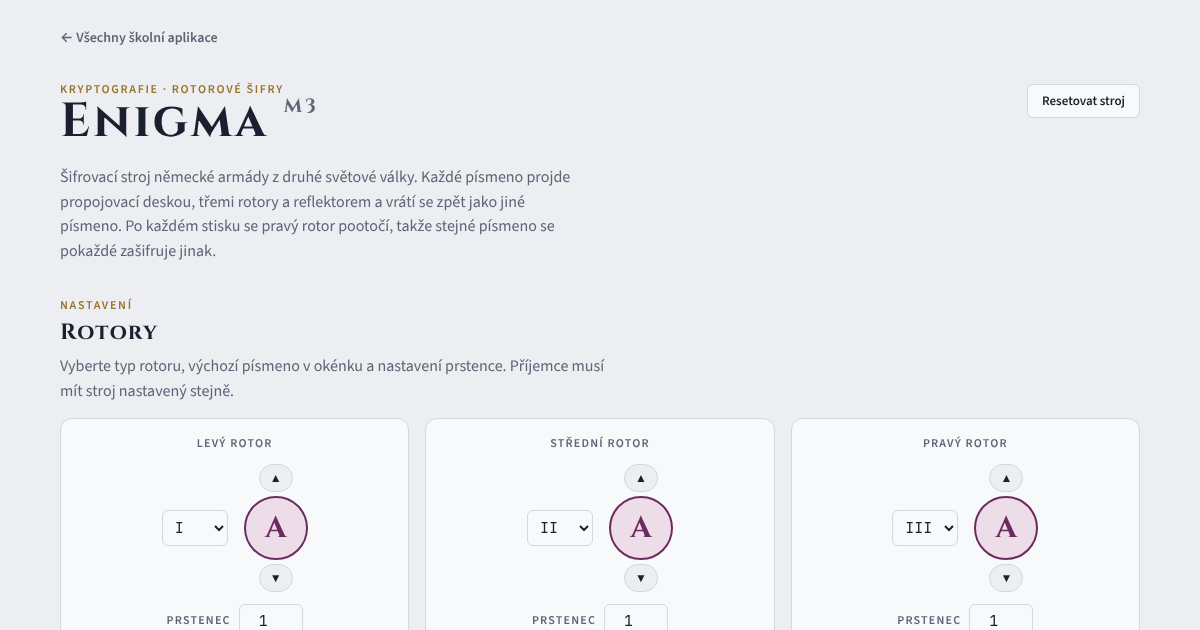
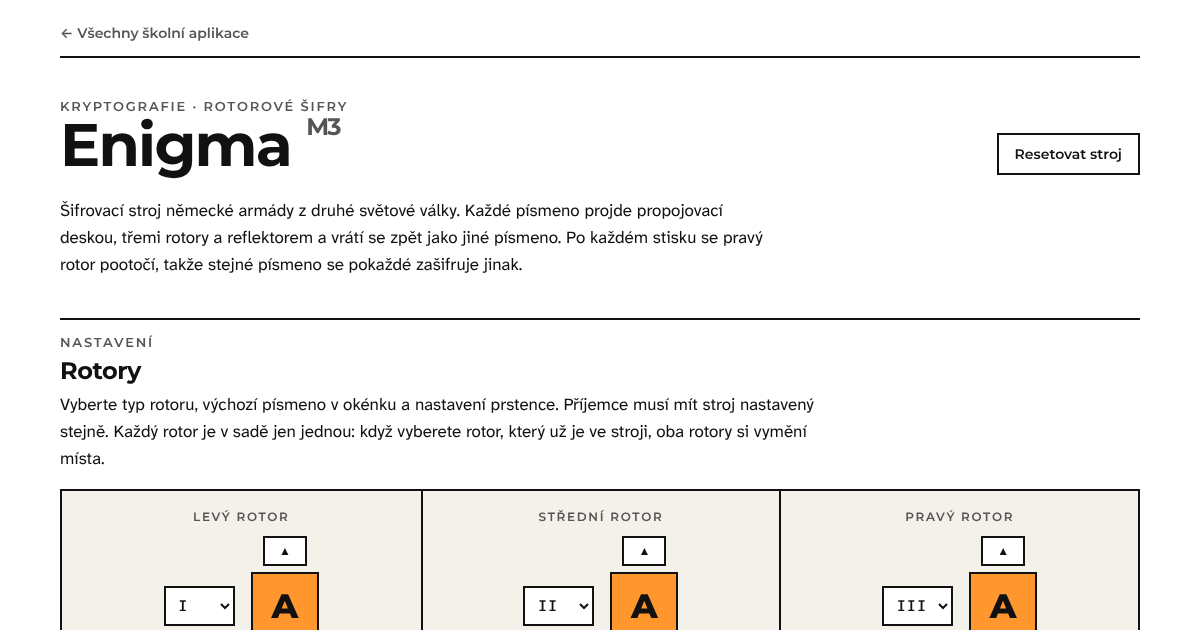
Enigma ve vzhledu logomanuálu gympb
Montserrat a Atkinson Hyperlegible ze sdílené složky, okénka rotorů
a rozsvícené lampy v oranžové #FF972E, černé lampové pole, výstup
v černém boxu s oranžovým okrajem, ostré hrany a 2px linky,
světlý i tmavý režim. Logika šifrování beze změny. Nový náhled.

Claude-Session: https://claude.ai/code/session_01BEUPNzadzTH9h2qQ7Kx97s

diff --git a/enigma/index.html b/enigma/index.html
@@ -9,78 +9,80 @@
 <meta property="og:image" content="nahled.png">
 <link rel="stylesheet" href="../assets/fonty/fonty.css">
 <style>
-/* Vzhled podle aplikace Caesarova šifra */
+/* Vzhled podle logomanuálu gympb (bez loga): Montserrat + Atkinson Hyperlegible, oranžová #FF972E jako plocha, černá #111111, papírová #F4F1EA, ostré hrany a 2px linky */
 :root{
-  --bg:#eceef1; --panel:#f8f9fb; --ink:#1a2030; --muted:#5d6577; --line:#d3d7df;
-  --accent:#6d2a5e; --accent-soft:#ecdde8; --gold:#9a7428; --good:#2f7a4f; --danger:#a3324a;
-  --f-display:"Cinzel","Trajan Pro",Georgia,serif;
-  --f-body:"Source Sans 3","Segoe UI",system-ui,sans-serif;
-  --f-mono:"JetBrains Mono",ui-monospace,Consolas,monospace;
+  --bg:#FFFFFF; --panel:#F4F1EA; --ink:#111111; --muted:#555555; --line:#DDDDDD;
+  --brand:#FF972E; --on-brand:#111111; --accent-text:#8A450B; --accent-soft:#FFE8D1; --danger:#A3324A;
+  --f-display:"Montserrat","Segoe UI",system-ui,sans-serif;
+  --f-body:"Atkinson Hyperlegible Next","Atkinson Hyperlegible","Segoe UI",system-ui,sans-serif;
+  --f-mono:"Atkinson Hyperlegible Mono",ui-monospace,Consolas,monospace;
 }
 @media (prefers-color-scheme:dark){:root:not([data-theme="light"]){
-  --bg:#13161d; --panel:#1b1f29; --ink:#e7e9ef; --muted:#9aa1b2; --line:#2e3442;
-  --accent:#d491c3; --accent-soft:#3a2436; --gold:#d6b066; --good:#6cc391; --danger:#e58a9c; color-scheme:dark}}
+  --bg:#111111; --panel:#1C1C1C; --ink:#F2F2F2; --muted:#ABABAB; --line:#333333;
+  --accent-text:#FFB670; --accent-soft:#3A2410; --danger:#E58A9C; color-scheme:dark}}
 :root[data-theme="dark"]{
-  --bg:#13161d; --panel:#1b1f29; --ink:#e7e9ef; --muted:#9aa1b2; --line:#2e3442;
-  --accent:#d491c3; --accent-soft:#3a2436; --gold:#d6b066; --good:#6cc391; --danger:#e58a9c; color-scheme:dark}
+  --bg:#111111; --panel:#1C1C1C; --ink:#F2F2F2; --muted:#ABABAB; --line:#333333;
+  --accent-text:#FFB670; --accent-soft:#3A2410; --danger:#E58A9C; color-scheme:dark}
 *{box-sizing:border-box}
 [hidden]{display:none!important}
-body{margin:0;background:var(--bg);color:var(--ink);font:16px/1.55 var(--f-body);
-  padding-left:max(16px,env(safe-area-inset-left,0px));padding-right:max(16px,env(safe-area-inset-right,0px));padding-block:28px 56px}
-.wrap{max-width:1080px;margin:0 auto;display:grid;gap:36px}
-h1,h2{font-family:var(--f-display);font-weight:700;letter-spacing:.06em;text-wrap:balance;margin:0}
-h1{font-size:clamp(30px,5vw,48px);line-height:1.1}
-h2{font-size:22px}
-.eyebrow{font:600 12px/1 var(--f-body);letter-spacing:.14em;text-transform:uppercase;color:var(--gold)}
-.lede{color:var(--muted);max-width:66ch;margin:10px 0 0}
-.back{font:600 14px var(--f-body);color:var(--muted);text-decoration:none}
-.back:hover{color:var(--accent)}
-header{display:grid;gap:6px}
-.head-row{display:flex;justify-content:space-between;align-items:flex-start;gap:16px;flex-wrap:wrap}
-:focus-visible{outline:2px solid var(--accent);outline-offset:2px}
-.lab{font:600 12px var(--f-body);letter-spacing:.1em;text-transform:uppercase;color:var(--muted);display:block}
-.btn{border:1px solid var(--line);background:var(--panel);color:var(--ink);font:600 13px var(--f-body);padding:7px 14px;border-radius:6px;cursor:pointer}
-.btn:hover{border-color:var(--danger);color:var(--danger)}
-section{display:grid;gap:14px}
-.sec-head{display:grid;gap:4px}
-.sec-head p{margin:0;color:var(--muted);max-width:70ch}
-select,input[type=number],input[type=text]{font:15px var(--f-mono);color:var(--ink);background:var(--panel);border:1px solid var(--line);border-radius:6px;padding:6px 8px}
+body{margin:0;background:var(--bg);color:var(--ink);font:17px/1.6 var(--f-body);
+  padding-left:max(16px,env(safe-area-inset-left,0px));padding-right:max(16px,env(safe-area-inset-right,0px));padding-block:24px 56px}
+.wrap{max-width:1080px;margin:0 auto;display:grid;gap:40px}
+h1,h2{font-family:var(--f-display);font-weight:700;text-wrap:balance;margin:0}
+h1{font-size:clamp(36px,6vw,60px);line-height:1;letter-spacing:-.03em}
+h2{font-size:24px;line-height:1.15;letter-spacing:-.02em}
+.eyebrow{font:600 13px/1.3 var(--f-display);letter-spacing:.14em;text-transform:uppercase;color:var(--muted)}
+.lede{max-width:64ch;margin:14px 0 0}
+.back{font:600 14px var(--f-display);color:var(--muted);text-decoration:none;padding-bottom:14px;border-bottom:2px solid var(--ink);display:block}
+.back:hover{color:var(--ink)}
+header{display:grid;gap:8px}
+.head-row{display:flex;justify-content:space-between;align-items:flex-end;gap:16px;flex-wrap:wrap}
+:focus-visible{outline:2px solid var(--ink);outline-offset:2px}
+.lab{font:600 12px var(--f-display);letter-spacing:.14em;text-transform:uppercase;color:var(--muted);display:block}
+.btn{border:2px solid var(--ink);background:var(--bg);color:var(--ink);font:600 14px var(--f-display);padding:9px 16px;cursor:pointer;min-height:42px}
+.btn:hover{background:var(--brand);color:var(--on-brand)}
+section{display:grid;gap:16px}
+.sec-head{display:grid;gap:6px;border-top:2px solid var(--ink);padding-top:14px}
+.sec-head p{margin:0;max-width:70ch}
+select,input[type=number],input[type=text]{font:500 16px var(--f-mono);color:var(--ink);background:var(--bg);border:2px solid var(--ink);border-radius:0;padding:6px 8px;min-height:40px}
 
-.rotors{display:grid;grid-template-columns:repeat(3,minmax(0,1fr));gap:16px}
+.rotors{display:grid;grid-template-columns:repeat(3,minmax(0,1fr));gap:0;border:2px solid var(--ink)}
 @media (max-width:640px){.rotors{grid-template-columns:minmax(0,1fr)}}
-.rotor{background:var(--panel);border:1px solid var(--line);border-radius:12px;padding:16px;display:grid;justify-items:center;gap:12px}
+.rotor{background:var(--panel);padding:18px;display:grid;justify-items:center;gap:12px}
+.rotor+.rotor{border-left:2px solid var(--ink)}
+@media (max-width:640px){.rotor+.rotor{border-left:0;border-top:2px solid var(--ink)}}
 .rotor-row{display:flex;align-items:center;gap:16px}
-.wheel{display:grid;justify-items:center;gap:4px}
-.step{width:34px;height:28px;border:1px solid var(--line);background:var(--bg);color:var(--ink);border-radius:999px;cursor:pointer;font-size:12px}
-.step:hover{border-color:var(--accent);color:var(--accent)}
-.window{width:64px;height:64px;border-radius:50%;background:var(--accent-soft);border:2px solid var(--accent);color:var(--accent);
-  display:flex;align-items:center;justify-content:center;font:700 30px var(--f-display)}
-.ring{font:600 12px var(--f-body);letter-spacing:.1em;text-transform:uppercase;color:var(--muted);display:flex;align-items:center;gap:8px}
+.wheel{display:grid;justify-items:center;gap:6px}
+.step{width:44px;height:30px;border:2px solid var(--ink);background:var(--bg);color:var(--ink);cursor:pointer;font-size:12px}
+.step:hover{background:var(--brand);color:var(--on-brand)}
+.window{width:68px;height:68px;background:var(--brand);color:var(--on-brand);border:2px solid var(--ink);
+  display:flex;align-items:center;justify-content:center;font:800 34px var(--f-display)}
+.ring{font:600 12px var(--f-display);letter-spacing:.14em;text-transform:uppercase;color:var(--muted);display:flex;align-items:center;gap:8px}
 .ring input{width:64px;text-align:center}
 
-.lampboard{background:var(--panel);border:1px solid var(--line);border-radius:12px;padding:20px 12px;display:grid;gap:10px;justify-items:center;overflow-x:auto}
+.lampboard{background:#111111;border:2px solid var(--ink);padding:22px 12px;display:grid;gap:10px;justify-items:center;overflow-x:auto}
 .lamp-row{display:flex;gap:8px}
 .lamp-row:nth-child(2){margin-left:24px}
-.lamp{width:40px;height:40px;border-radius:50%;border:1px solid var(--line);background:var(--bg);color:var(--muted);
-  display:flex;align-items:center;justify-content:center;font:600 15px var(--f-mono);transition:background .25s,color .25s,box-shadow .25s}
-.lamp.active{background:var(--gold);border-color:var(--gold);color:var(--panel);box-shadow:0 0 0 4px color-mix(in srgb,var(--gold) 30%,transparent)}
+.lamp{width:42px;height:42px;border-radius:50%;border:2px solid #555555;background:#1C1C1C;color:#8A8A8A;
+  display:flex;align-items:center;justify-content:center;font:600 16px var(--f-mono);transition:background .25s,color .25s,box-shadow .25s}
+.lamp.active{background:#FF972E;border-color:#FF972E;color:#111111;box-shadow:0 0 0 5px rgba(255,151,46,.3),0 0 18px rgba(255,151,46,.6)}
 @media (max-width:440px){.lamp{width:32px;height:32px;font-size:13px}.lamp-row{gap:5px}.lamp-row:nth-child(2){margin-left:16px}}
 @media (prefers-reduced-motion:reduce){.lamp{transition:none}}
 
 .io{display:grid;grid-template-columns:repeat(2,minmax(0,1fr));gap:16px}
 @media (max-width:640px){.io{grid-template-columns:minmax(0,1fr)}}
 .io label{margin-bottom:6px}
-textarea{width:100%;min-height:110px;resize:vertical;font:16px/1.6 var(--f-mono);border-radius:8px;padding:12px 14px}
-#input-text{color:var(--ink);background:var(--panel);border:1px solid var(--line)}
-#output-text{background:var(--ink);color:var(--bg);border:1px solid var(--ink);font-weight:600;letter-spacing:.08em}
-#output-text::placeholder{color:var(--muted);font-weight:400;letter-spacing:0}
+textarea{width:100%;min-height:110px;resize:vertical;font:500 17px/1.6 var(--f-mono);border-radius:0;padding:12px 14px}
+#input-text{color:var(--ink);background:var(--panel);border:2px solid var(--ink)}
+#output-text{background:#111111;color:#FFFFFF;border:2px solid var(--ink);border-left:8px solid var(--brand);font-weight:500;letter-spacing:.08em}
+#output-text::placeholder{color:#8A8A8A;letter-spacing:0}
 
-.plug{background:var(--panel);border:1px solid var(--line);border-radius:12px;padding:16px;display:grid;gap:10px}
+.plug{background:var(--panel);border:2px solid var(--ink);padding:16px;display:grid;gap:10px}
 .plug-row{display:flex;gap:12px 20px;flex-wrap:wrap;align-items:center}
 .plug-row input{flex:1 1 240px;min-width:0;text-transform:uppercase}
 .plug-row label{display:flex;align-items:center;gap:8px}
-.note{font-size:14px;color:var(--muted);margin:0}
-footer{font-size:13px;color:var(--muted);border-top:1px solid var(--line);padding-top:16px}
+.note{font-size:15px;color:var(--muted);margin:0}
+footer{font-size:14px;color:var(--muted);border-top:2px solid var(--ink);padding-top:14px}
 footer a{color:inherit}
 </style>
 </head>
